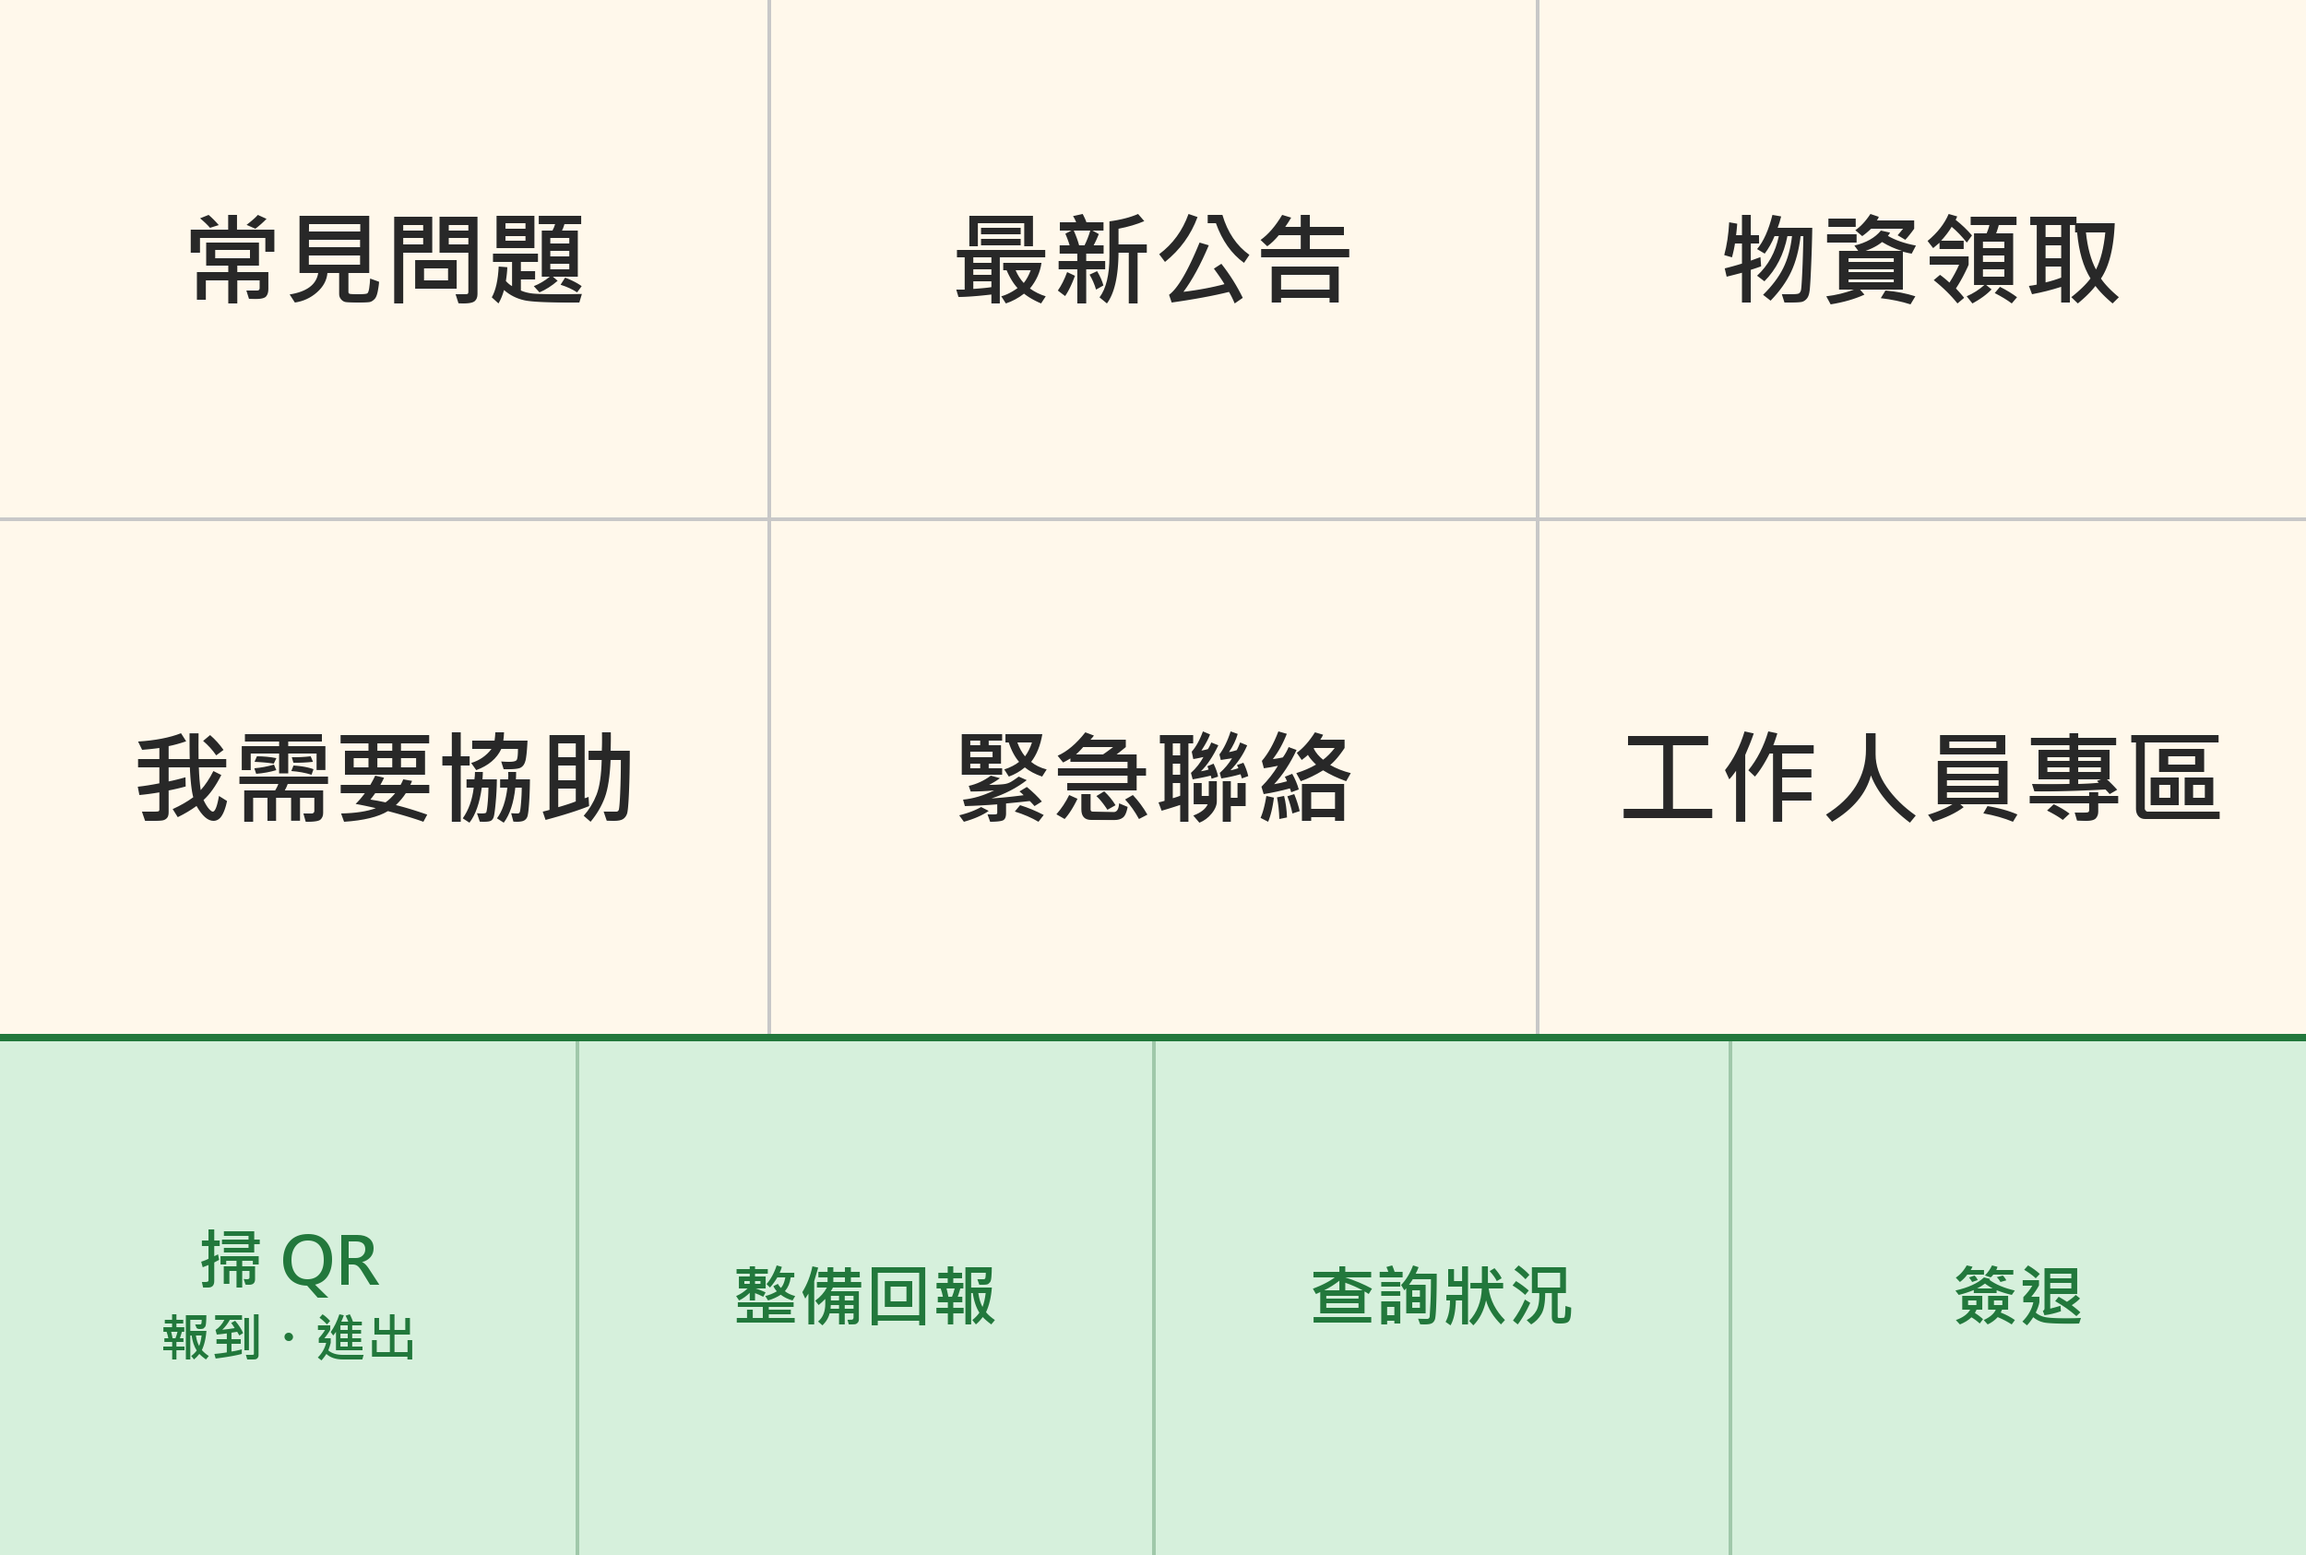
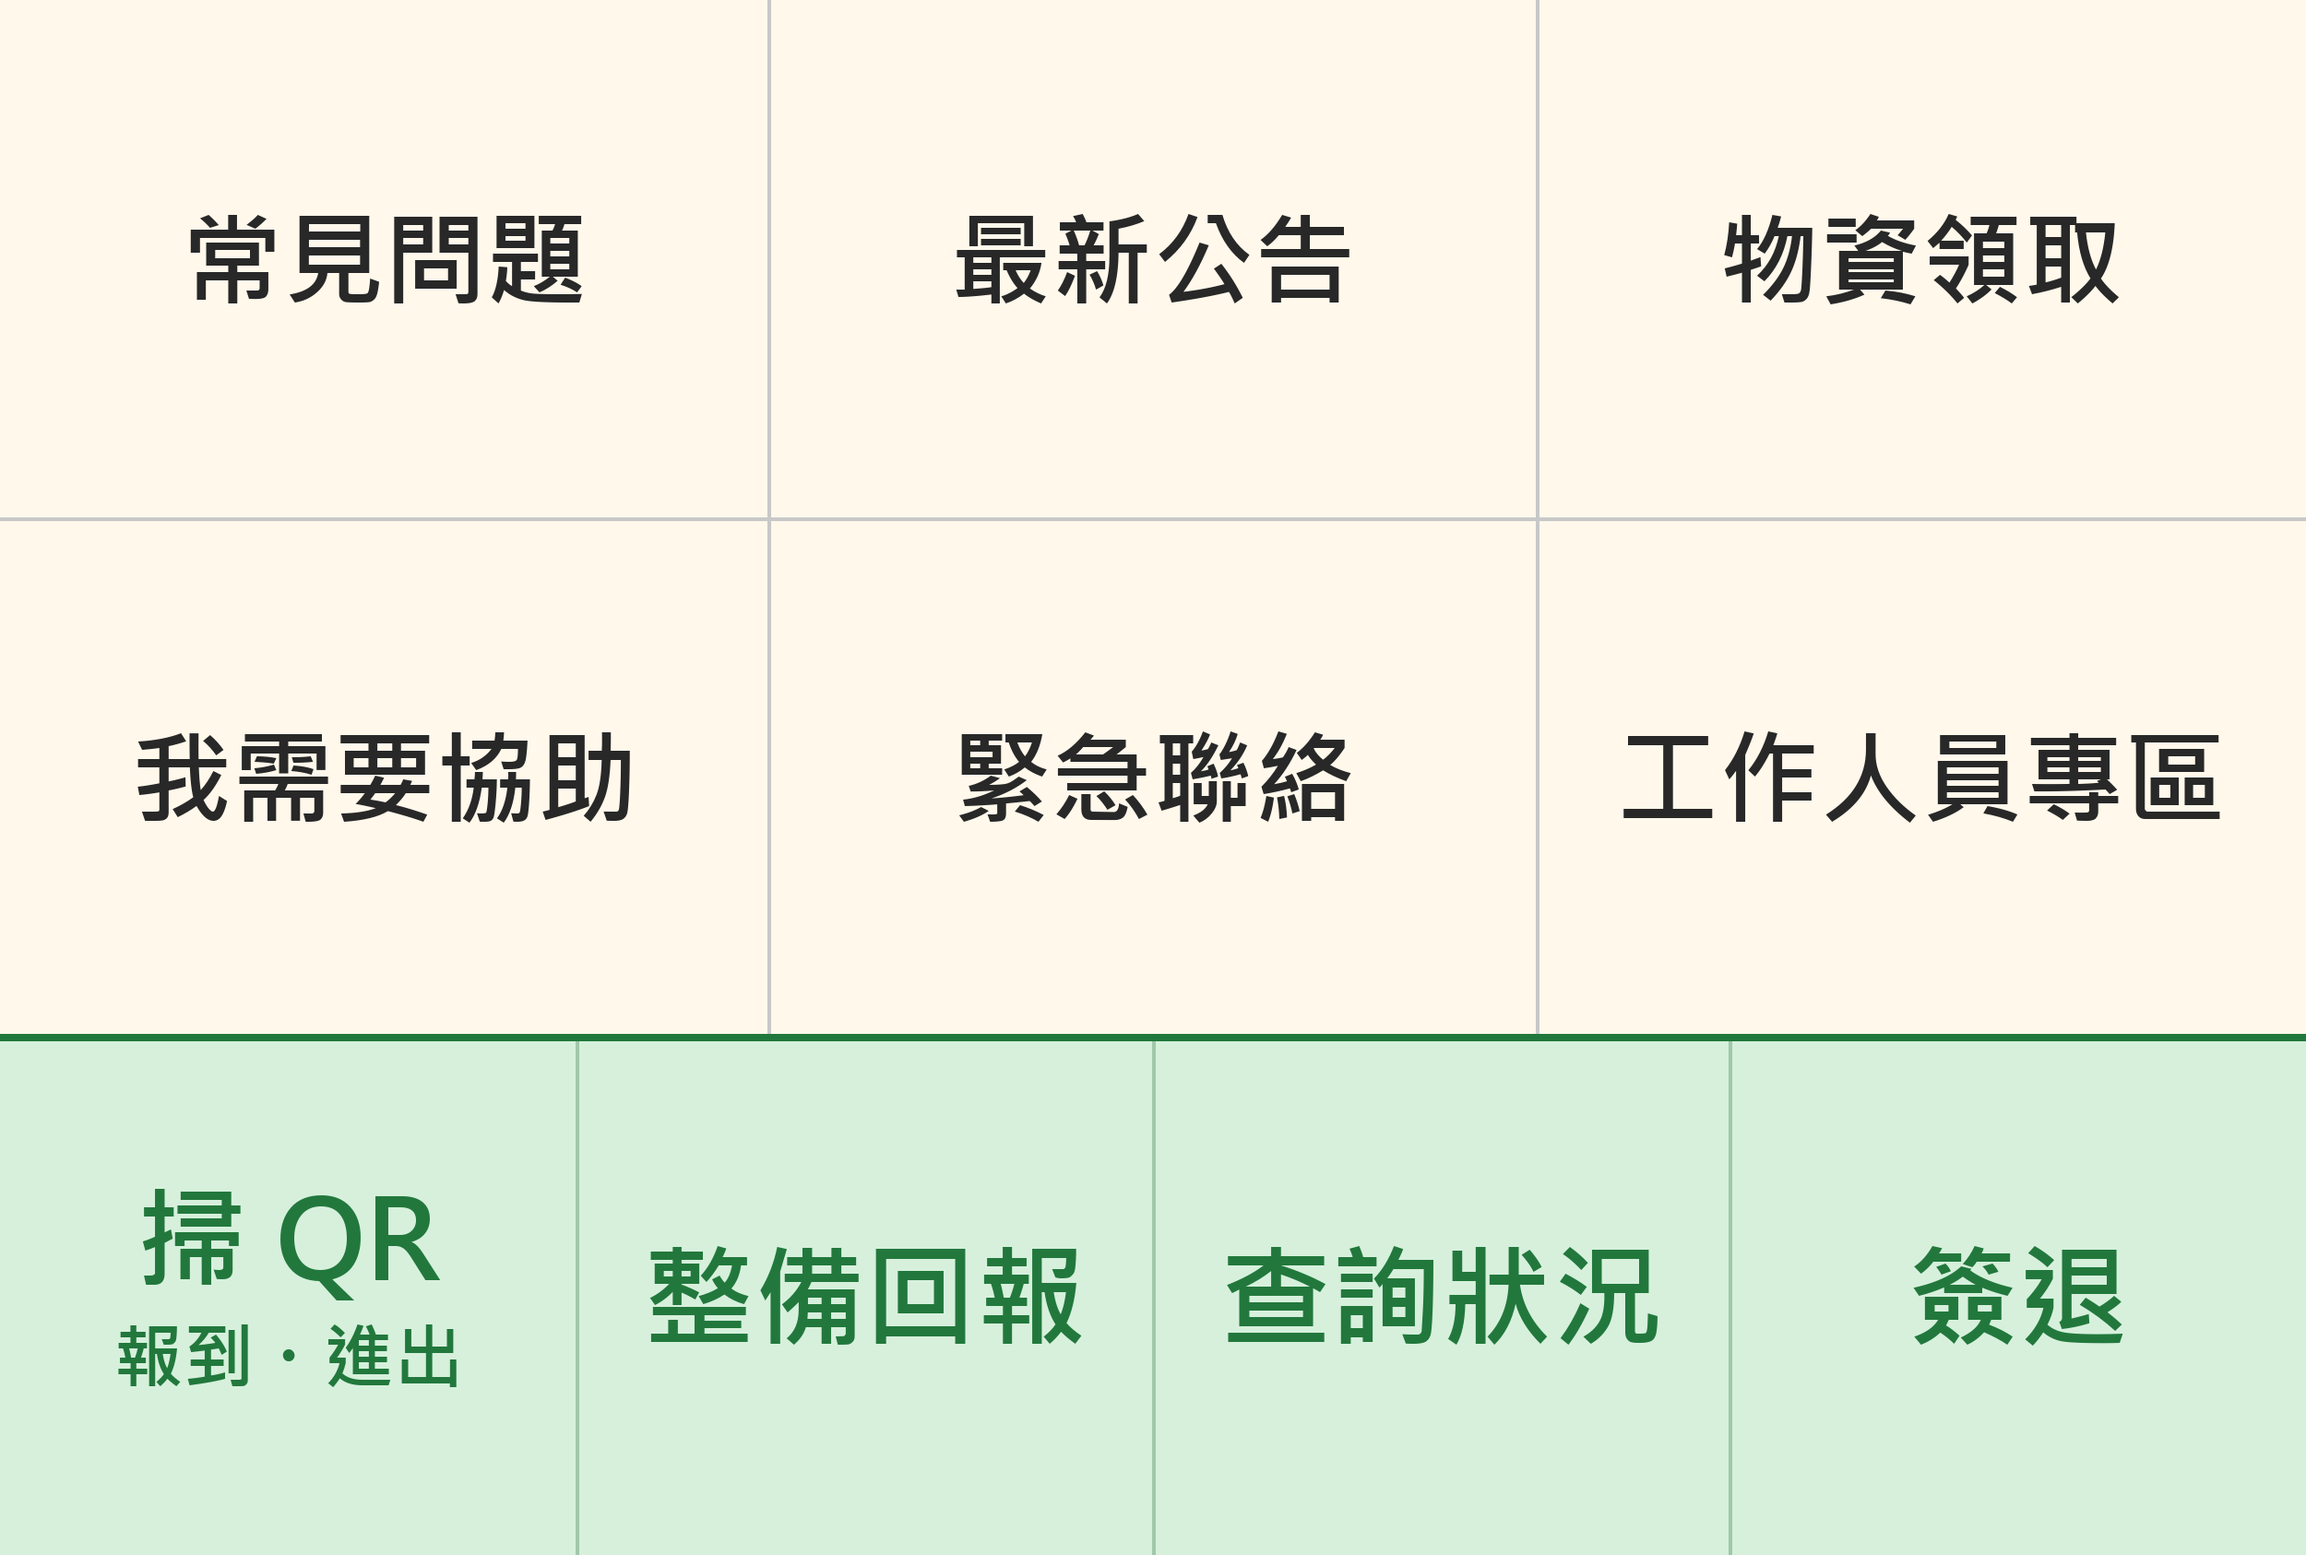
加乘選單最下列字放大；選單別名改為更新或新建；記錄 GitHub 操作方式

diff --git a/tools/make_blueprints.py b/tools/make_blueprints.py
@@ -536,14 +536,29 @@ def build_menu():
          "mapper": {"url": "{{4.body.image.file.url}}", "method": "get", "serializeUrl": False, "shareCookies": False},
          "metadata": {"designer": {"x": 0, "y": 0, "name": "下載選單圖片"}}},
         {"id": 2, "module": "line:createARichMenu", "version": 1, "parameters": {"__IMTCONN__": CONN_LINE},
-         "mapper": {"name": "staff-plus-v1", "chatBarText": "選單", "selected": False, "height": 1686,
+         "mapper": {"name": "staff-plus", "chatBarText": "選單", "selected": False, "height": 1686,
                     "areas": areas, "data": "{{1.data}}", "filename": "staff_plus.png"},
          "metadata": {"designer": {"x": 300, "y": 0, "name": "建立加乘選單"}, "parameters": line_meta}},
-        {"id": 3, "module": "line:makeApiCall", "version": 1, "parameters": {"__IMTCONN__": CONN_LINE},
-         "mapper": {"url": "/v2/bot/richmenu/alias", "method": "POST",
-                    "body": json.dumps({"richMenuAliasId": MENU_ALIAS, "richMenuId": "{{2.richMenuId}}"}),
-                    "headers": [{"key": "Content-Type", "value": "application/json"}]},
-         "metadata": {"designer": {"x": 600, "y": 0, "name": f"設定別名 {MENU_ALIAS}"}, "parameters": line_meta}},
+        # 別名：路由同時試「更新」和「新建」，各自出錯就略過。
+        # 已有別名時更新成功、新建失敗；第一次部署時相反。
+        {"id": 8, "module": "builtin:BasicRouter", "version": 1, "mapper": None,
+         "metadata": {"designer": {"x": 600, "y": 0, "name": "設定別名"}},
+         "routes": [
+             {"flow": [{"id": 3, "module": "line:makeApiCall", "version": 1, "parameters": {"__IMTCONN__": CONN_LINE},
+                        "mapper": {"url": f"/v2/bot/richmenu/alias/{MENU_ALIAS}", "method": "POST",
+                                   "body": json.dumps({"richMenuId": "{{2.richMenuId}}"}),
+                                   "headers": [{"key": "Content-Type", "value": "application/json"}]},
+                        "metadata": {"designer": {"x": 900, "y": -150, "name": f"更新別名 {MENU_ALIAS}"}, "parameters": line_meta},
+                        "onerror": [{"id": 6, "module": "builtin:Ignore", "version": 1, "mapper": None,
+                                     "metadata": {"designer": {"x": 1200, "y": -150}}}]}]},
+             {"flow": [{"id": 5, "module": "line:makeApiCall", "version": 1, "parameters": {"__IMTCONN__": CONN_LINE},
+                        "mapper": {"url": "/v2/bot/richmenu/alias", "method": "POST",
+                                   "body": json.dumps({"richMenuAliasId": MENU_ALIAS, "richMenuId": "{{2.richMenuId}}"}),
+                                   "headers": [{"key": "Content-Type", "value": "application/json"}]},
+                        "metadata": {"designer": {"x": 900, "y": 150, "name": f"新建別名 {MENU_ALIAS}"}, "parameters": line_meta},
+                        "onerror": [{"id": 7, "module": "builtin:Ignore", "version": 1, "mapper": None,
+                                     "metadata": {"designer": {"x": 1200, "y": 150}}}]}]},
+         ]},
     ]
     return blueprint("12 建立加乘選單（一次性）", flow, instant=False)
 

diff --git a/tools/make_richmenu.py b/tools/make_richmenu.py
@@ -36,8 +36,8 @@ def main():
     img = Image.new("RGB", (W, H), BG_PUBLIC)
     d = ImageDraw.Draw(img)
     big = ImageFont.truetype(FONT, 110)
-    mid = ImageFont.truetype(FONT, 72)
-    small = ImageFont.truetype(FONT, 56)
+    mid = ImageFont.truetype(FONT, 120)
+    small = ImageFont.truetype(FONT, 76)
 
     # 上兩列：一般選單
     cw = W / 3
@@ -53,8 +53,8 @@ def main():
         x0, x1 = i * sw, (i + 1) * sw
         y0, y1 = 2 * ROW_H, H
         if sub:
-            center_text(d, (x0, y0, x1, y1 - 70), label, mid, ACCENT)
-            center_text(d, (x0, y0 + 90, x1, y1), sub, small, ACCENT)
+            center_text(d, (x0, y0, x1, y1 - 110), label, mid, ACCENT)
+            center_text(d, (x0, y0 + 130, x1, y1), sub, small, ACCENT)
         else:
             center_text(d, (x0, y0, x1, y1), label, mid, ACCENT)
 

diff --git a/CLAUDE.md b/CLAUDE.md
@@ -96,3 +96,9 @@
 5. Node 24 在 Windows 上遇到中文路徑時，`fs.rmSync` 會崩潰，請改用 `fs.unlinkSync`。
 
 ops 格式寫在 `tools/canvas.mjs` 的檔頭註解。
+
+## 版本庫（GitHub，公開）
+
+- repo：`miaoliemic/miaoli-shelter-system`，專案帳號，之後會移交。commit 作者用 `miaoliemic` 和 GitHub 隱私信箱（已設在本 repo 的 git config）。
+- **公開 repo 不放實際 ID**：Notion、Make.com 的 ID 都放在 `tools/config.local.json`。這個檔案和 `建置紀錄.md`、`make/*.blueprint.json` 都列在 .gitignore。推送前要掃描有沒有 ID、email 或個資。
+- 要推送時，用 `run_in_terminal` 在使用者的終端機執行，讓 GitHub 登入流程能在瀏覽器完成。終端機指令不能含中文路徑，所以先用 `Set-Location D:\CLI\115_*\*\make\example; Set-Location ..\..` 切到專案資料夾，再 `git push`。
